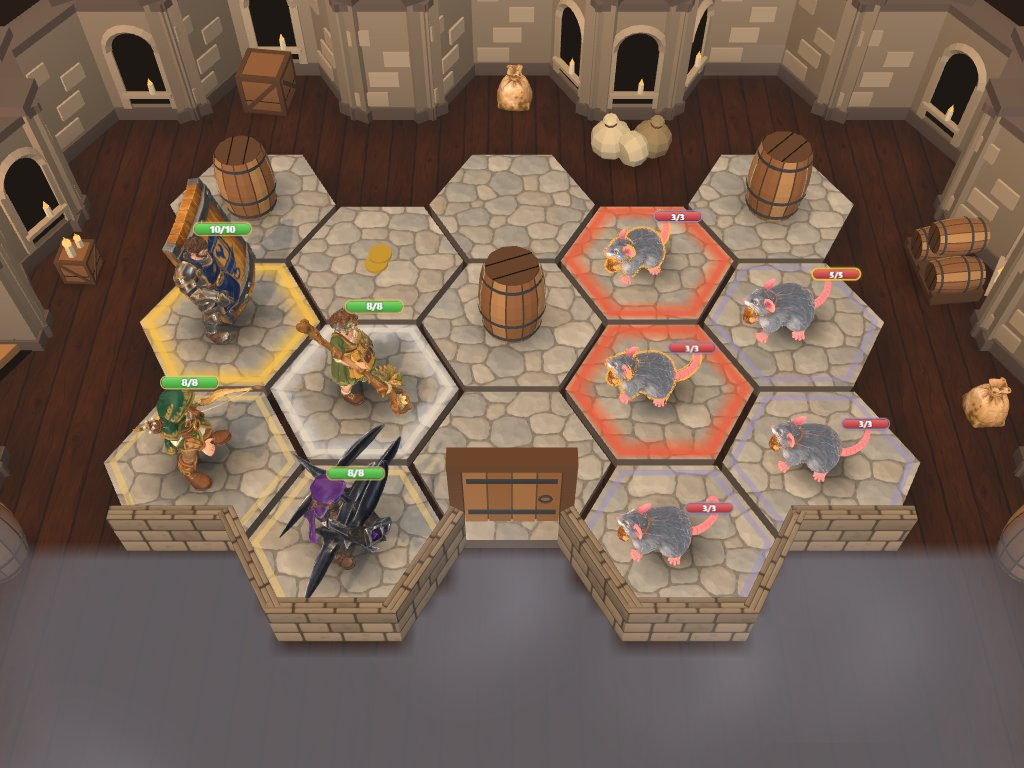
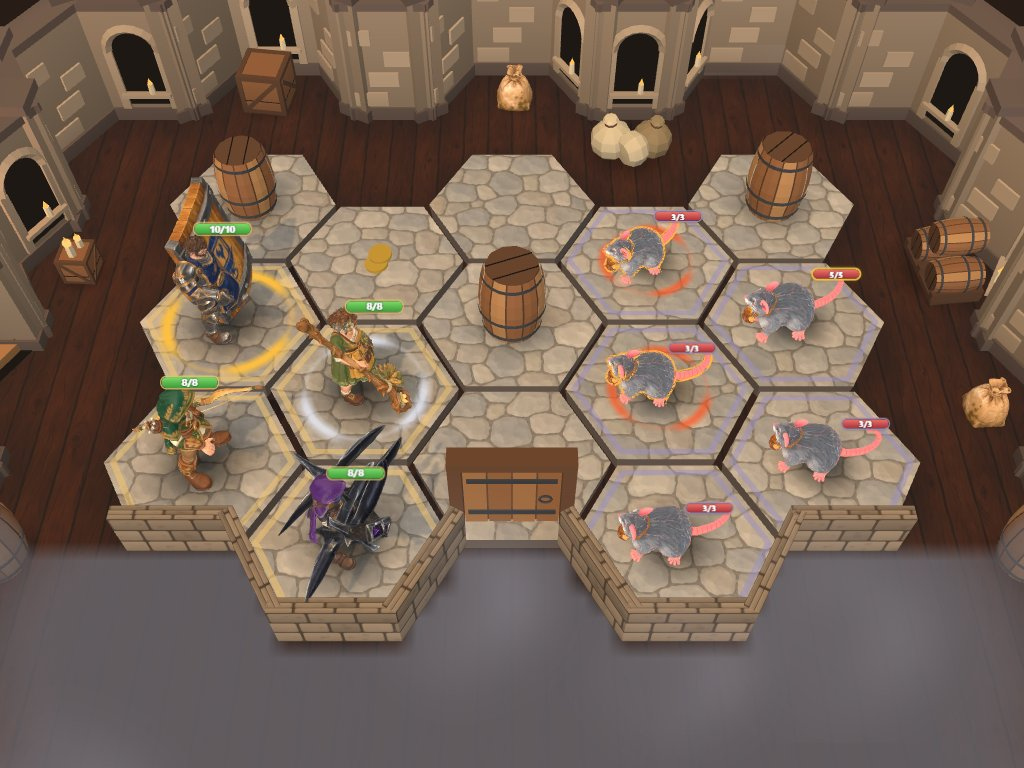
Board: turning glow ring around the feet for active, selected and targets
The active figure gets a thin gold ring of three tapered arcs over a faint
circle around its feet, slowly turning; a selected figure the same in soft
white; valid targets in ember, turning the other way and pulsing (they keep
the outline). Replaces the glowing hex edge. While a ring shows and nothing
else moves, the board draws at 24 fps instead of stopping.

diff --git a/src/render/figureView.ts b/src/render/figureView.ts
@@ -1,9 +1,9 @@
 // One figure on the board: its model (or a small painted standee until a model exists or loads)
 // standing straight on the hex like a real miniature: no base disc, a soft contact shadow under its
-// feet, a thin hex-edge tint for its side (heroes warm gold, monsters cool grey-violet), a glowing
-// hex edge when it is active, selected or a target (targets also get an outline), an invisible
-// pick cylinder, and the HTML badge with health and conditions. Positions and clips are driven by
-// boardView.
+// feet, a thin hex-edge tint for its side (heroes warm gold, monsters cool grey-violet), a slowly
+// turning glowing ring around its feet when it is active, selected or a target (targets also pulse
+// and get an outline), an invisible pick cylinder, and the HTML badge with health and conditions.
+// Positions and clips are driven by boardView.
 
 import * as THREE from 'three';
 import type { ConditionId } from '../rules/content';
@@ -48,14 +48,20 @@ function measureHeight(model: Model): number {
 
 /** Side colours of the thin hex edge under a figure. */
 export const SIDE_EDGE_COLORS: Record<'hero' | 'foe', string> = { hero: '#f0c470', foe: '#9a90c0' };
-/** Glowing hex edge: the active figure (warm), a selected one (soft white), a valid target (ember). */
+/** Glowing ring around the feet: the active figure (warm gold), a selected one (soft white), a
+ *  valid target (ember, pulsing). The ring turns slowly. */
 export type FigureGlow = 'active' | 'selected' | 'target';
-export const GLOW_COLORS: Record<FigureGlow, string> = { active: '#ffbe3a', selected: '#eef1ff', target: '#ff4f1f' };
-const GLOW_OPACITY: Record<FigureGlow, number> = { active: 0.85, selected: 0.6, target: 0.9 };
+export const GLOW_COLORS: Record<FigureGlow, string> = { active: '#ffc040', selected: '#eef1ff', target: '#ff5422' };
+const GLOW_OPACITY: Record<FigureGlow, number> = { active: 0.95, selected: 0.7, target: 0.95 };
+/** Turns per second of the ring (active and selected turn one way, targets the other). */
+const RING_SPIN: Record<FigureGlow, number> = { active: 0.08, selected: 0.05, target: -0.12 };
+/** Ring radius around a figure's feet: a little wider than its contact shadow, inside the hex. */
+const RING_SCALE = 1.2;
+const RING_MAX = 0.8;
 
 export interface FigureParts {
   edgeGeometry: THREE.BufferGeometry;
-  glowGeometry: THREE.BufferGeometry;
+  ringGeometry: THREE.BufferGeometry;
   blobGeometry: THREE.BufferGeometry;
   proxyGeometry: THREE.BufferGeometry;
   blobTexture: THREE.Texture;
@@ -96,25 +102,72 @@ export function hexBand(radii: readonly number[], levels: readonly number[]): TH
   return g;
 }
 
+/**
+ * A flat glowing ring of unit radius on the ground: `arcs` bright arcs with tapered ends over a faint
+ * full circle, each a band whose alpha (vertex colour, RGBA) peaks on the line and fades to 0 at the
+ * rims, so it reads as a thin line with a soft glow.
+ */
+export function footRing(arcs = 3, gapDeg = 34): THREE.BufferGeometry {
+  const pos: number[] = [];
+  const col: number[] = [];
+  const index: number[] = [];
+  const band = (start: number, length: number, radii: number[], alphas: number[], taper: number) => {
+    const steps = Math.max(4, Math.ceil(length / (Math.PI / 36)));
+    const base = pos.length / 3;
+    for (let s = 0; s <= steps; s++) {
+      const a = start + (s / steps) * length;
+      const along = Math.min(a - start, start + length - a);
+      const k = taper > 0 ? Math.min(1, along / taper) : 1;
+      const fade = k * k * (3 - 2 * k);
+      radii.forEach((r, i) => {
+        pos.push(Math.cos(a) * r, 0, -Math.sin(a) * r);
+        col.push(1, 1, 1, (alphas[i] ?? 0) * fade);
+      });
+    }
+    const n = radii.length;
+    for (let s = 0; s < steps; s++) {
+      for (let i = 0; i < n - 1; i++) {
+        const a = base + s * n + i;
+        const b = a + n;
+        // Counter-clockwise seen from above, so the ring faces up.
+        index.push(a, a + 1, b + 1, a, b + 1, b);
+      }
+    }
+  };
+  band(0, Math.PI * 2, [0.9, 0.965, 1.03], [0, 0.3, 0], 0);
+  const gap = (gapDeg * Math.PI) / 180;
+  const arc = (Math.PI * 2) / arcs - gap;
+  for (let i = 0; i < arcs; i++) band((i * Math.PI * 2) / arcs, arc, [0.82, 0.935, 0.995, 1.13], [0, 1, 1, 0], arc * 0.3);
+  const g = new THREE.BufferGeometry();
+  g.setAttribute('position', new THREE.Float32BufferAttribute(pos, 3));
+  g.setAttribute('color', new THREE.Float32BufferAttribute(col, 4));
+  g.setIndex(index);
+  return g;
+}
+
+/** Board-wide glow animation at `time` seconds: targets pulse (shared material). */
+export function animateGlows(parts: FigureParts, time: number): void {
+  const target = parts.glowMaterials.target as THREE.MeshBasicMaterial;
+  target.opacity = GLOW_OPACITY.target * (0.7 + 0.3 * Math.sin(time * Math.PI * 1.4));
+}
+
 export function createFigureParts(): FigureParts {
   const proxyMaterial = new THREE.MeshBasicMaterial();
   proxyMaterial.visible = false;
   const glow = (g: FigureGlow) => new THREE.MeshBasicMaterial({ color: GLOW_COLORS[g], vertexColors: true, transparent: true, opacity: GLOW_OPACITY[g], depthWrite: false });
   return {
     edgeGeometry: hexBand([0.83, 0.9], [1, 1]),
-    // Brightest just inside the plate's rim, fading toward the middle and over the rim.
-    glowGeometry: hexBand([0.66, 0.86, 0.9, 0.97], [0, 0.75, 0.75, 0]),
+    ringGeometry: footRing(),
     blobGeometry: new THREE.PlaneGeometry(1, 1).rotateX(-Math.PI / 2),
     proxyGeometry: new THREE.CylinderGeometry(0.62, 0.62, 1, 10).translate(0, 0.5, 0),
     blobTexture: blobShadowTexture(),
     glowMaterials: { active: glow('active'), selected: glow('selected'), target: glow('target') },
-
     proxyMaterial,
   };
 }
 
 export function disposeFigureParts(p: FigureParts): void {
-  for (const x of [p.edgeGeometry, p.glowGeometry, p.blobGeometry, p.proxyGeometry, p.blobTexture, p.proxyMaterial, ...Object.values(p.glowMaterials)]) x.dispose();
+  for (const x of [p.edgeGeometry, p.ringGeometry, p.blobGeometry, p.proxyGeometry, p.blobTexture, p.proxyMaterial, ...Object.values(p.glowMaterials)]) x.dispose();
 }
 
 /** Inverted-hull outline material; works with skinning (pushes vertices along the skinned normal). */
@@ -191,8 +244,10 @@ export class FigureView {
     this.hoverPhase = (f.hex[0] * 1.7 + f.hex[1] * 2.3) % (Math.PI * 2);
     this.blobRadius = THREE.MathUtils.clamp(look.height * 0.42, 0.42, 0.85);
     this.blob = this.buildBase();
-    this.glowMesh = new THREE.Mesh(parts.glowGeometry, parts.glowMaterials.active);
+    this.glowMesh = new THREE.Mesh(parts.ringGeometry, parts.glowMaterials.active);
     this.glowMesh.position.y = PLATE_HEIGHT + 0.012;
+    this.glowMesh.scale.setScalar(Math.min(RING_MAX, this.blobRadius * RING_SCALE));
+    this.glowMesh.name = 'foot-ring';
     this.glowMesh.renderOrder = 3;
     this.glowMesh.visible = false;
     this.base.add(this.glowMesh);
@@ -514,15 +569,26 @@ export class FigureView {
     }
   }
 
-  /** An outline around the figure (valid targets); the glowing hex edge comes from setGlow. */
+  /** An outline around the figure (valid targets); the glowing ring comes from setGlow. */
   setTargeted(on: boolean): void {
     this.targeted = on;
     if (on && this.outlines.length === 0) this.buildOutline();
     for (const o of this.outlines) o.visible = on;
   }
 
-  /** Glowing hex edge for the active figure, a selected one or a valid target; null for none. */
+  /** Whether a ring is showing (it turns, so the board keeps drawing slowly). */
+  get glowing(): boolean {
+    return this.glowMesh.visible;
+  }
+
+  /** Turns the ring to where it is at `time` seconds (absolute, so frame gaps do not matter). */
+  spinGlow(time: number): void {
+    if (this.glow) this.glowMesh.rotation.y = (time * RING_SPIN[this.glow] + this.hoverPhase / (Math.PI * 2)) * Math.PI * 2;
+  }
+
+  /** Glowing ring around the feet for the active figure, a selected one or a valid target; null for none. */
   setGlow(glow: FigureGlow | null): void {
+
     this.glow = glow;
     if (glow) this.glowMesh.material = this.parts.glowMaterials[glow];
     this.glowMesh.visible = glow !== null && this.opacity > 0.5;

diff --git a/src/render/boardView.ts b/src/render/boardView.ts
@@ -17,7 +17,8 @@ import { BoardEnvironment, type EnvironmentStats } from './environment';
 import { BoardOverlay, CONDITION_ICONS, FigureBadge, type OverlayItem } from './boardOverlay';
 import { PLATE_HEIGHT, TileLayer } from './boardTiles';
 import { isFogCreature, lookOf, PROJECTILE } from './figureLook';
-import { createFigureParts, disposeFigureParts, FigureView } from './figureView';
+import { animateGlows, createFigureParts, disposeFigureParts, FigureView } from './figureView';
+
 import { activeFigure, CELL_COLORS, planHighlights, type HighlightPlan } from './highlightPlan';
 import { HEX_SIZE, hexToWorld, worldToHex } from './hexLayout';
 import { flyPose, JUMP_CROUCH, JUMP_LAND, jumpHeight, jumpPose, leanAngles, slidePose, type MovePose } from './motion';
@@ -27,6 +28,8 @@ import type { BoardHighlights, BoardView, BoardViewOptions } from './view';
 import { iconSvg } from '../ui/icons/svg';
 
 const BACKGROUND = '#1b1d27';
+/** Frame rate while only the rings under figures move. */
+const RING_FPS = 24;
 
 /** Floating words and the reset button's label; everything else on the board is digits or icons. */
 const LABELS: Record<'uk' | 'de' | 'en', { miss: string; shield: string; resetView: string }> = {
@@ -253,6 +256,7 @@ export function createBoardView(container: HTMLElement, opts: BoardViewOptions =
   let fpsStart = 0;
   let fps = 0;
   const orbAnchor = new THREE.Vector3();
+  let ringTimer: ReturnType<typeof setTimeout> | 0 = 0;
 
   function requestRender(): void {
     if (!frame && !disposed) frame = requestAnimationFrame(renderFrame);
@@ -270,7 +274,12 @@ export function createBoardView(container: HTMLElement, opts: BoardViewOptions =
     const animDt = dt * anim.speed;
     overlay.time += animDt;
     environment.update(now / 1000);
-    for (const fv of figures.values()) fv.update(animDt);
+    const t = now / 1000;
+    animateGlows(parts, t);
+    for (const fv of figures.values()) {
+      fv.update(animDt);
+      fv.spinGlow(t);
+    }
     if (effects.hasOrbs) effects.placeOrbs((id) => orbPoint(id), animDt, movingOrbs);
     renderer.render(scene, camera.camera);
     overlay.update(camera.camera, root.clientWidth, root.clientHeight);
@@ -301,6 +310,13 @@ export function createBoardView(container: HTMLElement, opts: BoardViewOptions =
     else {
       lastTime = 0;
       fps = 0;
+      // A turning ring under the active figure: keep drawing, but slowly (saves the tablet's battery).
+      if (!frozen && !ringTimer && [...figures.values()].some((fv) => fv.glowing)) {
+        ringTimer = setTimeout(() => {
+          ringTimer = 0;
+          requestRender();
+        }, 1000 / RING_FPS);
+      }
     }
   }
 
@@ -1244,6 +1260,7 @@ export function createBoardView(container: HTMLElement, opts: BoardViewOptions =
     disposed = true;
     if (frame) cancelAnimationFrame(frame);
     frame = 0;
+    if (ringTimer) clearTimeout(ringTimer);
     resizeObserver.disconnect();
     stopQuality();
     camera.dispose();

diff --git a/tests/render/props.test.ts b/tests/render/props.test.ts
@@ -2,7 +2,7 @@ import { readFileSync } from 'node:fs';
 import * as THREE from 'three';
 import { describe, expect, it } from 'vitest';
 import { ENVIRONMENTS } from '../../src/render/environment';
-import { hexBand } from '../../src/render/figureView';
+import { footRing, hexBand } from '../../src/render/figureView';
 import { activeFigure } from '../../src/render/highlightPlan';
 import { fitToHeight, hexVariation, propModelFor } from '../../src/render/propModels';
 import type { GameState } from '../../src/rules/state';
@@ -79,7 +79,25 @@ describe('figure ground marks', () => {
     expect(g.getAttribute('color').itemSize).toBe(4);
   });
 
+  it('the foot ring faces up, glows on its line and fades to nothing at the rims', () => {
+    const g = footRing(3, 34);
+    g.computeVertexNormals();
+    const n = g.getAttribute('normal');
+    for (let i = 0; i < n.count; i++) expect(n.getY(i)).toBeGreaterThan(0.99);
+    const pos = g.getAttribute('position');
+    const col = g.getAttribute('color');
+    let peak = 0;
+    for (let i = 0; i < pos.count; i++) {
+      const r = Math.hypot(pos.getX(i), pos.getZ(i));
+      expect(r).toBeLessThanOrEqual(1.14);
+      if (r < 0.83 || r > 1.12) expect(col.getW(i)).toBe(0);
+      peak = Math.max(peak, col.getW(i));
+    }
+    expect(peak).toBe(1);
+  });
+
   it('the active figure is the hero the engine waits for, else the turn-order entry', () => {
+
     const base = {
       phase: 'turns',
       pending: null,
